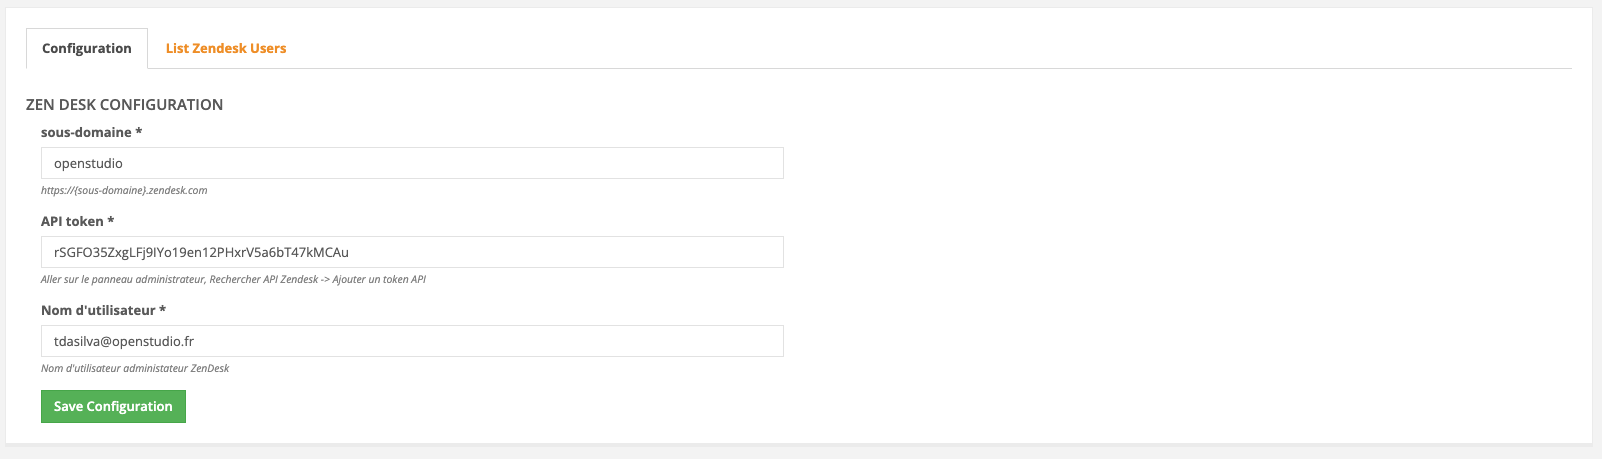
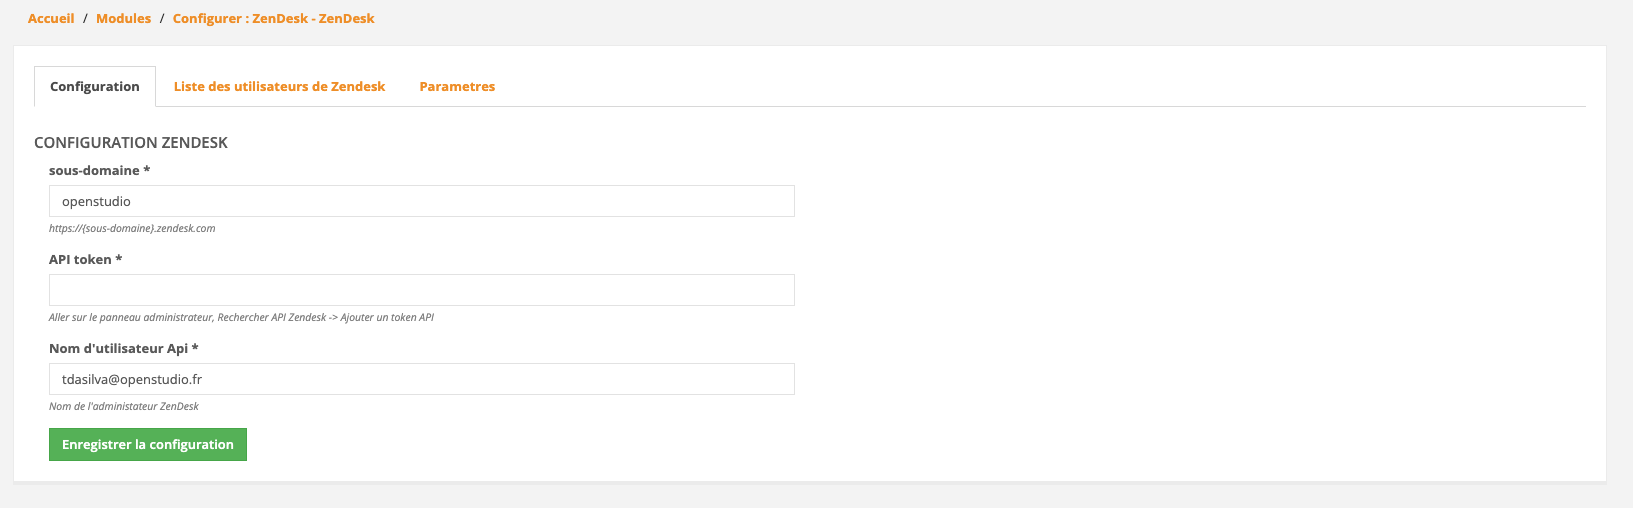
update docs + add default value parameters

diff --git a/ZenDesk.php b/ZenDesk.php
@@ -26,6 +26,12 @@ class ZenDesk extends BaseModule
             ->autoconfigure(true);
     }
 
+    public function postActivation(ConnectionInterface $con = null): void
+    {
+        self::setConfigValue('zen_desk_user_rules', 'false');
+        self::setConfigValue('zen_desk_ticket_type', 'assigned');
+    }
+
     /**
      * Execute sql files in Config/update/ folder named with module version (ex: 1.0.1.sql).
      *

diff --git a/Controller/FrontController.php b/Controller/FrontController.php
@@ -145,7 +145,8 @@ class FrontController extends BaseFrontController
         ZenDeskManager $manager,
         ParserContext $parserContext,
         $id
-    ): RedirectResponse|Response|null {
+    ): RedirectResponse|Response|null
+    {
         $form = $this->createForm(ZenDeskTicketCommentsForm::getName());
 
         try {

diff --git a/Readme.md b/Readme.md
@@ -19,7 +19,7 @@ composer require thelia/zend-desk-module:~1.0
 
 ## Usage
 
-First go to https://{sous-domaine}.zendesk.com/admin/apps-integrations/apis/zendesk-api/
+First go to https://`{sous-domaine}`.zendesk.com/admin/apps-integrations/apis/zendesk-api/
 
 ![AdminZenDeskAPI](docs/images/admin_zendesk_api.png)
 
@@ -32,12 +32,21 @@ Go to the configuration panel and add your subdomain, api token and Zendesk's us
 
 ![ZenDeskConfig](docs/images/zendesk_config.png)
 
-When Connected, your retailers will see their tickets from ZenDesk.
+When Connected, your customer will see their tickets from ZenDesk.
 
 It's using the email of the retailer so be sure to add it in ZenDesk.
+
+![ZenDeskConfig](docs/images/zendesk_parameters.png)
+
+You should configure Zendesk Parameters
+
+* user rules : allow your users to create and edit tickets or not (read-only  by default)
+* tickets type : allow your users to see only requested or assigned ticket or all (assigned by default)
 
 ## Loop
 
 [zendesk_users_loop]
 
 ![ZenDeskUser](docs/images/zendesk_users_list.png)
+
+You will see all the users who have both a Zendesk account and an account on your website
